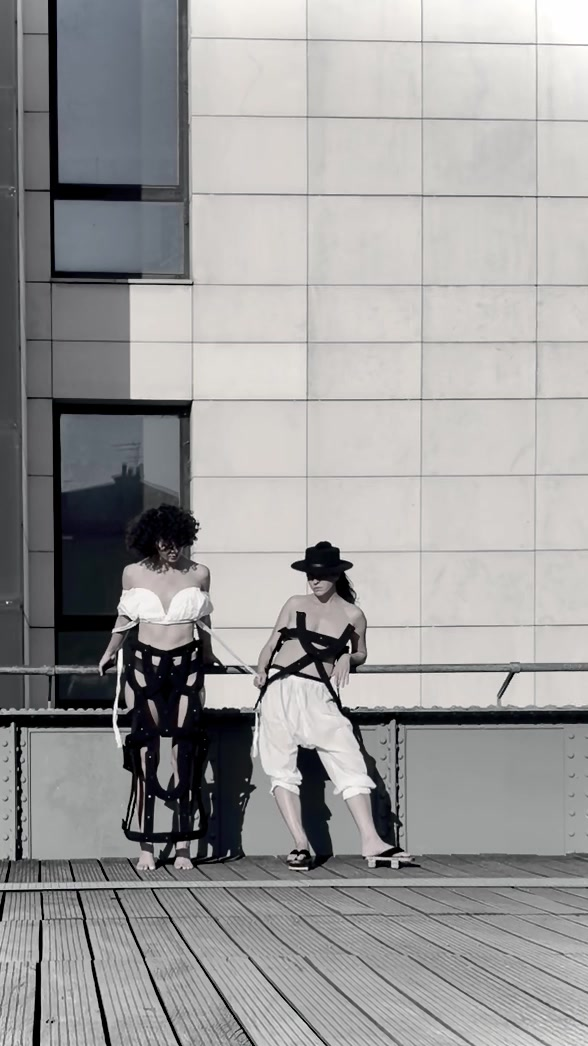
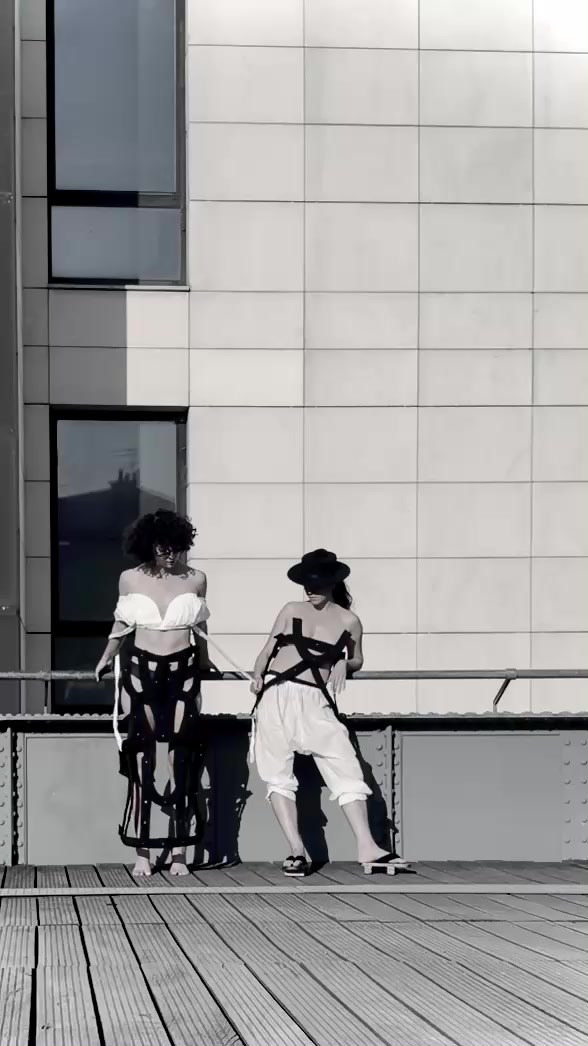
Fix film jump on phones, correct Instagram handle
- Poster is now frame 0 of the film. It was frame 5 s, so the picture
  jumped when playback started on slower phone connections.
- H.264 MP4 is listed before VP9 WebM, so iPhones use hardware decoding.
- Instagram is @nei.nai.noi in both emails and on the result pages.
- Test checks the exact handle and sender address.

Claude-Session: https://claude.ai/code/session_01DKpaxoyEyXTbMPecerRvo9

Changed region(s): [[0.0, 0.0, 1.0, 1.0]]

diff --git a/lib/signup.js b/lib/signup.js
@@ -2,7 +2,7 @@
 // Mail goes out through Resend from hello@neinainoi.com (secret RESEND_API_KEY).
 // Nothing here is visible to a visitor except neinainoi.com and hello@neinainoi.com.
 
-const INSTAGRAM = 'https://www.instagram.com/neinainoi/';
+const INSTAGRAM = 'https://www.instagram.com/nei.nai.noi/';
 const EMAIL_RE = /^[^\s@]+@[^\s@]+\.[^\s@]+$/;
 
 const site = (env) => env.SITE_URL || 'https://neinainoi.com';
@@ -30,12 +30,12 @@ export function confirmationMail(env, t) {
   const url = `${site(env)}/api/confirm?t=${t}`;
   return {
     subject: 'confirm',
-    text: `one click to confirm.\n${url}\n\nthen we will write once, when the shop opens.\nuntil then: instagram @neinainoi\n${INSTAGRAM}\n\nneinainoi`,
+    text: `one click to confirm.\n${url}\n\nthen we will write once, when the shop opens.\nuntil then: instagram @nei.nai.noi\n${INSTAGRAM}\n\nneinainoi`,
     html: layout([
       'one click to confirm.',
       link(url, 'confirm'),
       'then we will write once, when the shop opens.',
-      `until then: ${link(INSTAGRAM, 'instagram @neinainoi')}`,
+      `until then: ${link(INSTAGRAM, 'instagram @nei.nai.noi')}`,
       'neinainoi',
     ]),
   };
@@ -45,11 +45,11 @@ export function welcomeMail(env, t) {
   const out = `${site(env)}/api/unsubscribe?t=${t}`;
   return {
     subject: 'you are on the list',
-    text: `thank you.\nwe will write once, when the shop opens. nothing before that.\n\nuntil then, follow us on instagram @neinainoi\n${INSTAGRAM}\n\nneinainoi\n\nunsubscribe: ${out}`,
+    text: `thank you.\nwe will write once, when the shop opens. nothing before that.\n\nuntil then, follow us on instagram @nei.nai.noi\n${INSTAGRAM}\n\nneinainoi\n\nunsubscribe: ${out}`,
     html: layout([
       'thank you.',
       'we will write once, when the shop opens. nothing before that.',
-      `until then, follow us on ${link(INSTAGRAM, 'instagram @neinainoi')}`,
+      `until then, follow us on ${link(INSTAGRAM, 'instagram @nei.nai.noi')}`,
       'neinainoi',
       `<span style="color:#8C8780;font-size:13px">${link(out, 'unsubscribe')}</span>`,
     ]),

diff --git a/holding/index.html b/holding/index.html
@@ -20,8 +20,8 @@
   <video class="film" autoplay muted loop playsinline preload="auto"
     poster="/media/series-001-poster.jpg" width="588" height="1046"
     aria-label="black and white film. two people stand at a railing, each wearing a neinainoi look, while others walk past.">
-    <source src="/media/series-001.webm" type="video/webm">
     <source src="/media/series-001.mp4" type="video/mp4">
+    <source src="/media/series-001.webm" type="video/webm">
   </video>
 
   <div class="end">

diff --git a/holding/confirmed.html b/holding/confirmed.html
@@ -6,7 +6,7 @@
 <main class="plain">
 <p><a class="home" href="/">nei<span class="nai">nai</span>noi</a></p>
 <p>confirmed. we will write when the shop opens.</p>
-<p><a href="https://www.instagram.com/neinainoi/">instagram @neinainoi</a></p>
+<p><a href="https://www.instagram.com/nei.nai.noi/">instagram @nei.nai.noi</a></p>
 </main>
 </body>
 </html>

diff --git a/holding/thanks.html b/holding/thanks.html
@@ -6,7 +6,7 @@
 <main class="plain">
 <p><a class="home" href="/">nei<span class="nai">nai</span>noi</a></p>
 <p>thank you. check your inbox.</p>
-<p><a href="https://www.instagram.com/neinainoi/">instagram @neinainoi</a></p>
+<p><a href="https://www.instagram.com/nei.nai.noi/">instagram @nei.nai.noi</a></p>
 </main>
 </body>
 </html>

diff --git a/CLAUDE.md b/CLAUDE.md
@@ -209,7 +209,7 @@ never names a city or country as origin.
 - Email signup (DECIDED): no third party visible anywhere. The form posts to our own
   `/api/subscribe` (Cloudflare Pages Function, `lib/signup.js`). The list is stored in
   Cloudflare D1, double opt-in. Mail goes from hello@neinainoi.com through Resend, unbranded.
-  Both emails point to instagram @neinainoi. The list moves to Shopify at launch.
+  Both emails point to instagram @nei.nai.noi. The list moves to Shopify at launch.
 - Hosting: Cloudflare Pages. The private preview sits behind Cloudflare Access.
 - Screen size of w: 24 px at phone width, growing with the viewport (`--w` in CSS).
 - The manufacturing process is not decided. Do not write copy about technology, knitting
@@ -239,3 +239,8 @@ Place under `/assets/source/` and do not edit:
 - Exports of the approved identity boards: logo, hangtag front and back, hard paper card,
   packaging card, connector caps A to F.
 - Photoshoots, backstage footage, and the airport X-ray image of a suitcase full of parts.
+
+## 9. Accounts and handles
+
+- Instagram: @nei.nai.noi (https://www.instagram.com/nei.nai.noi/). Not @neinainoi.
+- Email: hello@neinainoi.com, forwarded by Porkbun.

diff --git a/README.md b/README.md
@@ -25,4 +25,5 @@ To export the list at launch: in the D1 console run
 
 `holding/media/series-001.*` are web versions of
 `assets/source/images & videos/black_n_white.mov` at its native 588 x 1046: audio removed,
-VP9 WebM and H.264 MP4, poster frame at 5 s.
+H.264 MP4 first (hardware decoded on every phone), VP9 WebM as fallback. The poster is
+frame 0, so nothing jumps when playback starts.
